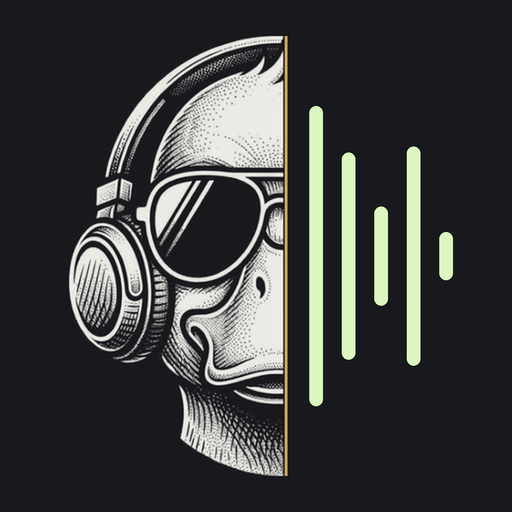
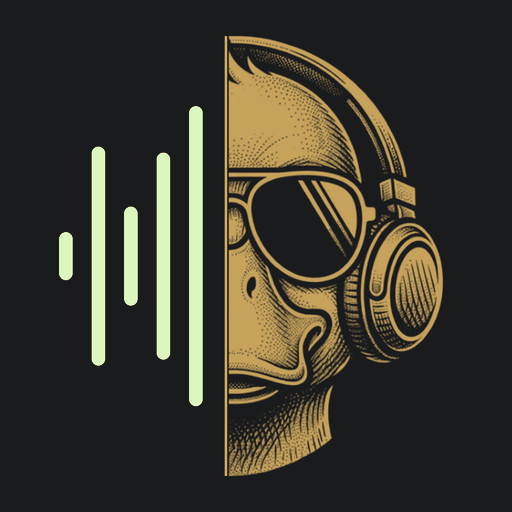
Mallard's mark: flipped, the brass duck and Lyrion's green waveform (#125)
Owner's pick, away from Rouen's: Rouen's duck mirrored to the right half in Mandarin's brass, half of Lyrion's waveform on the left in its green, on the dark ground. The generator reads the ground from the mark and draws full icons at 88% so a launcher's mask never cuts the headphone cup.

Claude-Session: https://claude.ai/code/session_01X1S9GKQqwW2MzPkJUNJzAh

diff --git a/tools/make-icons.py b/tools/make-icons.py
@@ -5,16 +5,19 @@
     python3 tools/make-icons.py [tools/brand/mallard-mark.png]
 
 THE MARK (owner decision): as Rouen's is the MusicD duck blended with Roon's bars, Mallard's is the duck blended with
-Lyrion's waveform. It is Rouen's own artwork (the duck, mirrored and cut down the middle at a brass line) with the right
-half redrawn: the right half of Lyrion's waveform, from its tall centre bar outwards, in Lyrion's pale green. Half a
-waveform because half a duck, and because the full ten-bar waveform turned to grey hatching at launcher sizes. The mark
-is a 512px square on its own ground (#17191c), framed already; nothing here trims it.
+Lyrion's waveform — but the REVERSE of Rouen's layout and in Mandarin's brass, because a first cut (Rouen's own
+artwork, white duck, waveform on the right) read as Rouen's. Rouen's duck mirrored, so its half is on the RIGHT, its
+engraving recoloured from white to Mandarin's brass, cut at a brass line; on the left, half of Lyrion's waveform, its
+tall centre bar at the line, in Lyrion's pale green. Half a waveform because half a duck, and because the full ten-bar
+waveform turned to hatching at launcher sizes. The mark is a 512px square on its own dark ground, framed already;
+nothing here trims it, and the ground is read from its corner.
 
 Run again only when the mark changes; the outputs are committed. What it writes, and why each differs:
   * public/icons: the PWA. `any` is the mark full-bleed; `maskable` is DIFFERENT artwork, the mark at 80% on its ground,
     because Android crops a maskable icon to a shape of its choosing and guarantees only the centre. apple-touch-icon
     has no alpha (iOS composites it on white) and no corners of our own (iOS masks it). duck-tile.png is the share
-    card's corner: a rounded square with a brass rim, as Rouen's tile.
+    card's corner: a rounded square with a brass rim. Every full-size icon draws the mark at 88%, so a
+    launcher's disc or rounded square never cuts the headphone cup at the edge.
   * android mipmaps: ic_launcher (rounded square), ic_launcher_round (disc), and the adaptive foreground: the mark at
     72/108 on its ground, since a launcher shows only the middle 72dp of the 108dp layer (colors.xml's icon_background
     is the same ground, so the layers meet without a seam).
@@ -25,8 +28,10 @@ import sys
 from PIL import Image, ImageDraw
 
 ROOT = os.path.dirname(os.path.dirname(os.path.abspath(__file__)))
-GROUND = (23, 25, 28)
+GROUND = (201, 164, 92)   # replaced by the mark's own corner in main()
+INK = (23, 25, 28)
 BRASS = (201, 164, 92)
+ART = 0.88   # the mark's share of a full icon: clear of a launcher's mask at the edges
 RES = os.path.join(ROOT, "android", "app", "src", "main", "res")
 DENSITIES = {"mdpi": 1, "hdpi": 1.5, "xhdpi": 2, "xxhdpi": 3, "xxxhdpi": 4}
 
@@ -54,13 +59,13 @@ def masked(img, shape, radius=0.0):
 
 
 def tile(mark, size):
-    """The share card's corner: the mark in a rounded square with a brass rim, as Rouen's tile."""
+    """The share card's corner: the mark in a rounded square with a rim, brass on a dark ground (as Rouen's), ink on a light one."""
     big = size * 4
-    out = masked(scaled(mark, big), "round", 0.2)
+    out = masked(scaled(mark, big, ART), "round", 0.2)
     d = ImageDraw.Draw(out)
-    rim = round(big * 0.023)   # about 6px at 256, Rouen's
+    rim = round(big * 0.014)   # about 3.5px at 256
     inset = round(big * 0.008) + rim // 2
-    d.rounded_rectangle([inset, inset, big - 1 - inset, big - 1 - inset], radius=round(big * 0.19), outline=BRASS, width=rim)
+    d.rounded_rectangle([inset, inset, big - 1 - inset, big - 1 - inset], radius=round(big * 0.19), outline=BRASS if sum(GROUND) < 384 else INK, width=rim)
     return out.resize((size, size), Image.LANCZOS)
 
 
@@ -72,24 +77,26 @@ def save(img, *parts):
 
 
 def main(src):
+    global GROUND
     mark = Image.open(src).convert("RGB")
     if mark.width != mark.height:
         sys.exit("the mark must be square")
+    GROUND = mark.getpixel((2, 2))
     icons = os.path.join(ROOT, "public", "icons")
-    save(scaled(mark, 192), icons, "icon-192.png")
-    save(scaled(mark, 512), icons, "icon-512.png")
+    save(scaled(mark, 192, ART), icons, "icon-192.png")
+    save(scaled(mark, 512, ART), icons, "icon-512.png")
     save(scaled(mark, 192, 0.8), icons, "icon-192-maskable.png")
     save(scaled(mark, 512, 0.8), icons, "icon-512-maskable.png")
-    save(scaled(mark, 180), icons, "apple-touch-icon.png")
+    save(scaled(mark, 180, ART), icons, "apple-touch-icon.png")
     save(scaled(mark, 32), icons, "favicon-32.png")
     save(scaled(mark, 16), icons, "favicon-16.png")
     save(tile(mark, 256), icons, "duck-tile.png")
     for name, k in DENSITIES.items():
         px = round(48 * k)
-        save(masked(scaled(mark, px), "round", 0.22), RES, "mipmap-" + name, "ic_launcher.png")
-        save(masked(scaled(mark, px), "disc"), RES, "mipmap-" + name, "ic_launcher_round.png")
+        save(masked(scaled(mark, px, ART), "round", 0.22), RES, "mipmap-" + name, "ic_launcher.png")
+        save(masked(scaled(mark, px, 0.84), "disc"), RES, "mipmap-" + name, "ic_launcher_round.png")
         save(scaled(mark, round(108 * k), 72 / 108), RES, "mipmap-" + name, "ic_launcher_foreground.png")
-    save(masked(scaled(mark, 192), "round", 0.22), RES, "drawable-nodpi", "menu_brand.png")
+    save(masked(scaled(mark, 192, ART), "round", 0.22), RES, "drawable-nodpi", "menu_brand.png")
     save(tile(mark, 256), RES, "drawable-nodpi", "duck_tile.png")
 
 

diff --git a/CLAUDE.md b/CLAUDE.md
@@ -1422,15 +1422,17 @@ tags, no automatic releases, no cluttered history.
   `showLibraryWall` must set `libraryWallActive` AFTER calling it, because
   `enterFullWall` calls `exitLibraryWall()`.
 - The app is an INSTALLABLE PWA wearing MALLARD'S MARK (owner decision, replacing the plain MusicD duck of v1.0.64):
-  Rouen's artwork — the duck mirrored and cut down the middle at a brass line — with the right half redrawn as the
-  right half of LYRION'S WAVEFORM in Lyrion's pale green (half a waveform for half a duck; the full ten bars turned to
+  the MusicD duck beside LYRION'S WAVEFORM, as Rouen pairs it with Roon's bars — but the REVERSE of Rouen's layout and
+  in MANDARIN'S BRASS, because a first cut (Rouen's artwork as it is) read as Rouen's (owner: "too similar"). Rouen's
+  duck mirrored to the right half and recoloured brass, at a brass line, with half of Lyrion's waveform on the left in
+  Lyrion's pale green, on the dark ground (half a waveform for half a duck; the full ten bars turned to
   hatching at launcher size). ONE master, `tools/brand/mallard-mark.png`, and ONE generator, `tools/make-icons.py`,
   write every icon: the PWA set in `public/icons` (`any` and `maskable` are SEPARATE artwork — Android guarantees only
   a maskable icon's centre, so that pair is the mark at 80%; iOS reads none of the manifest's icons, so
   `apple-touch-icon` + the apple-mobile-web-app metas are what make an iPhone install it), Mallard's launcher mipmaps
-  (the adaptive foreground is the mark at 72/108 on `icon_background`, the same #17191c ground), the side menu's
-  badge, and the share card's corner tile (`duck-tile.png` / `duck_tile.png`, a brass-rimmed rounded square as
-  Rouen's). Never hand-resize: run the generator so every size frames the mark identically.
+  (the adaptive foreground is the mark at 72/108 on `icon_background`, the same dark ground; every full icon draws
+  the mark at 88% so a launcher's mask never cuts the headphone cup), the side menu's
+  badge, and the share card's corner tile (`duck-tile.png` / `duck_tile.png`, a brass-rimmed rounded square). Never hand-resize: run the generator so every size frames the mark identically.
 - Endpoints that fetch a USER-SUPPLIED URL server-side (album-edit `art_url`,
   label-logo `url`) must pass it through `assertPublicUrl()` (`lib/urlguard.js`)
   first — it rejects loopback/private/link-local/ULA targets (SSRF guard). It

diff --git a/CHANGELOG.md b/CHANGELOG.md
@@ -7,7 +7,7 @@ Removed. Versions before v1.0.86 are described in their GitHub releases.
 
 ## Unreleased
 
-- Changed - Mallard has its own mark, on the Android app, the web app (installed or not), the share card and the Pages site: the MusicD duck beside Lyrion's waveform, as Rouen's pairs it with Roon's
+- Changed - Mallard has its own mark, on the Android app, the web app (installed or not), the share card and the Pages site: half the MusicD duck in Mandarin's brass beside half of Lyrion's waveform in its green
 - Added - Mallard has the Share card: Share on the album screen and on Now playing, with Copy image and Download (to Pictures/Mallard)
 - Changed - The web app's Share card is redrawn to match Mallard's, the two now being one design (Mandarin's): the cover softened as the ground under a glass pane, a larger cover, the release, title and artist, the album's review across the card with whose words they are, Pitchfork's score and Best New Music, and the MusicD duck in the corner. The card appears at once and fills in the year and review as they arrive
 - Added - Test builds from `dev`: the server image `ghcr.io/meltface-80/musicd-lms-remote:dev` (named, e.g., 1.0.87-t1) and Mallard's `mallard-test.apk` (0.2.0-tN), each published once CI passes. A test build says so in Settings → System and is updated by pulling `:dev` again, never by the in-app updater
